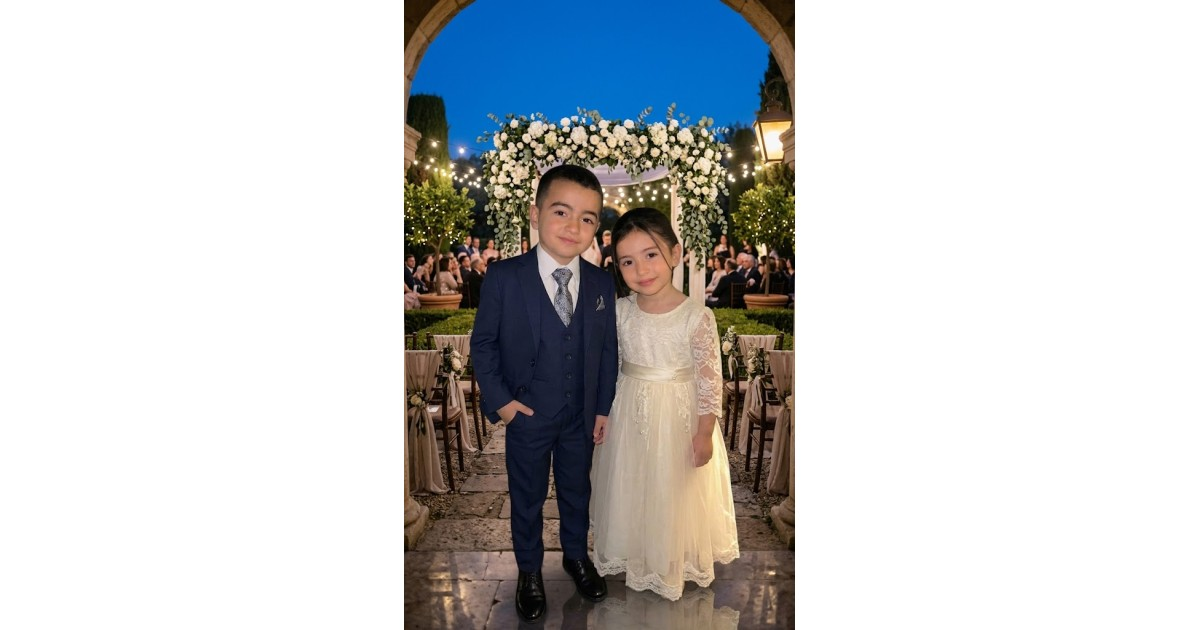
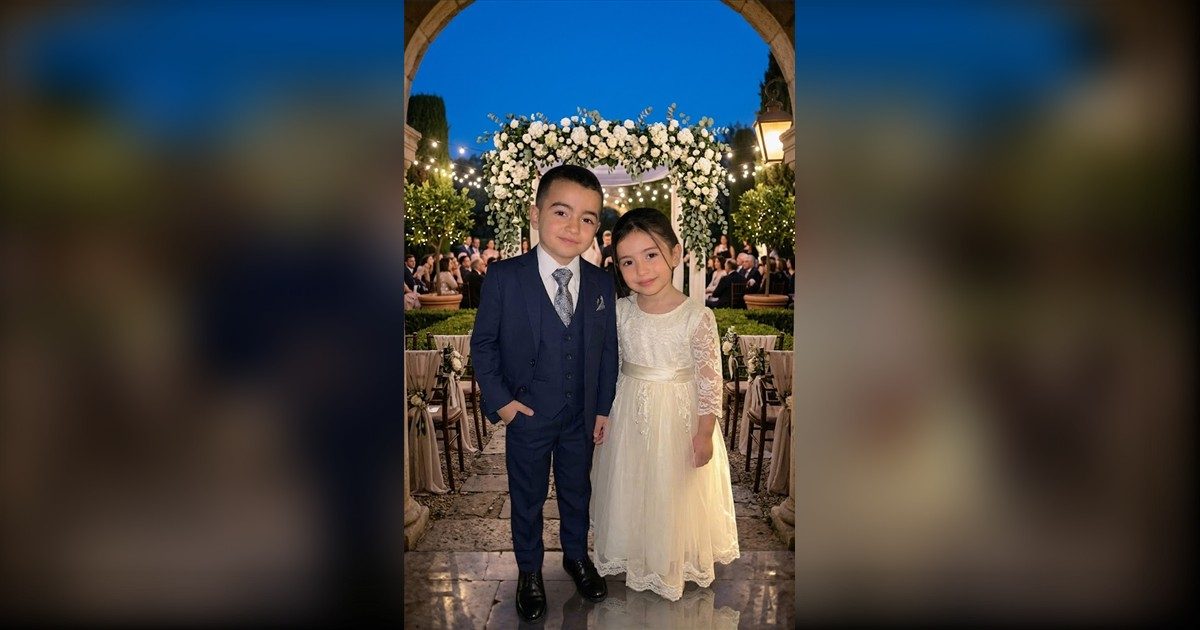
Added bg2 instead of bg

diff --git a/src/app/layout.tsx b/src/app/layout.tsx
@@ -21,7 +21,7 @@ export const metadata: Metadata = {
     description: "Joyfully invite you to celebrate their engagement weekend",
     images: [
       {
-        url: "/assets/bg-og.jpg",
+        url: "/assets/bg2.png",
         width: 1200,
         height: 630,
         alt: "Mohamed & Habiba's Engagement",
@@ -33,7 +33,7 @@ export const metadata: Metadata = {
     card: "summary_large_image",
     title: "Mohamed & Habiba's Engagement",
     description: "Joyfully invite you to celebrate their engagement weekend",
-    images: ["/assets/bg-og.jpg"],
+    images: ["/assets/bg2.png"],
   },
 };
 
